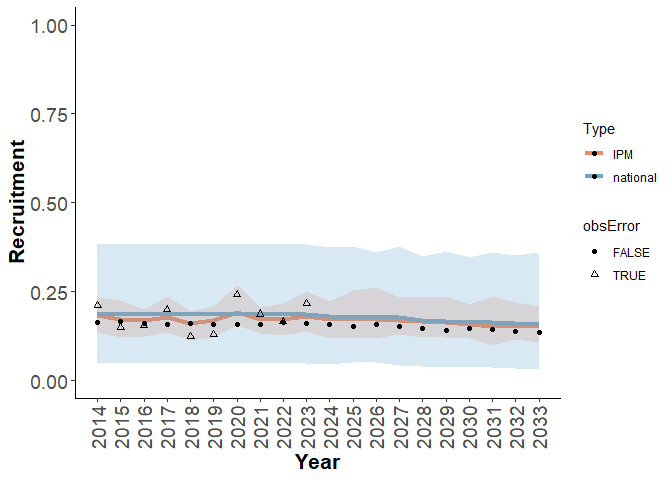
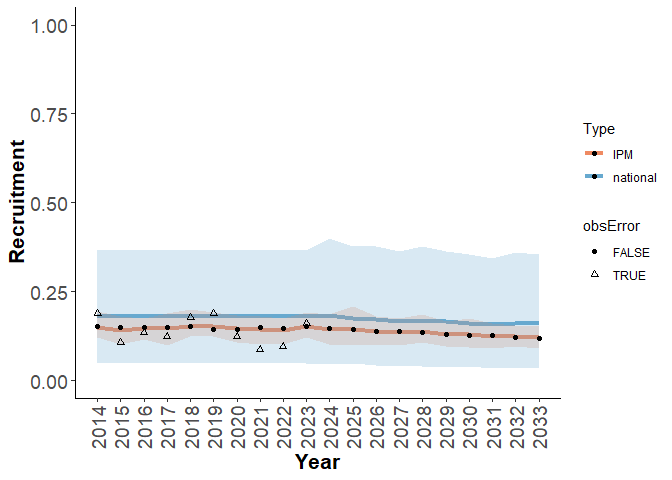
update vignette and some other minor changes for check

diff --git a/README.md b/README.md
@@ -94,9 +94,9 @@ demRates <- demographicRates(covTable = disturb_tbl,
 #> popGrowthPars contains quantiles so they are used instead of the defaults
 demRates
 #>   zone   Anthro     Fire Total_dist fire_excl_anthro FID     S_bar   S_stdErr
-#> 1    1 39.86675 1.732936   40.45363        0.5868729   0 0.8479506 0.05932629
-#>     S_PIlow  S_PIhigh     R_bar  R_stdErr    R_PIlow  R_PIhigh
-#> 1 0.7352235 0.9380413 0.1816836 0.1002984 0.04896882 0.3716495
+#> 1    1 39.86675 1.732936   40.45363        0.5868729   0 0.8479506 0.05405621
+#>     S_PIlow  S_PIhigh     R_bar   R_stdErr    R_PIlow  R_PIhigh
+#> 1 0.7487979 0.9302797 0.1816836 0.09490028 0.06382286 0.3828127
 
 # Simulate population growth
 popGrow <- caribouPopGrowth(N = 2000, numSteps = 20, R_bar = demRates$R_bar, 
@@ -104,7 +104,7 @@ popGrow <- caribouPopGrowth(N = 2000, numSteps = 20, R_bar = demRates$R_bar,
 
 popGrow
 #>     N0    lambda   N       R_t       S_t n_recruits surviving_adFemales
-#> 1 2000 0.9248875 418 0.1831704 0.8538016         42                 376
+#> 1 2000 0.9200186 376 0.1803221 0.8396411         22                 354
 
 # simulate caribou collar observations
 params <- getScenarioDefaults(
@@ -126,6 +126,7 @@ ipm <- caribouBayesianIPM(simObs$simSurvObs, simObs$ageRatioOut,
 #> using Kaplan-Meier survival model
 
 natSim <- getSimsNational(Anthro = unique(simObs$simDisturbance$Anthro))
+#> Warning: Setting expected survival S_bar to be between l_S and h_S.
 
 ipmTbls <- getOutputTables(ipm, paramTable = simObs$paramTable, 
                             exData = simObs$exData, 
